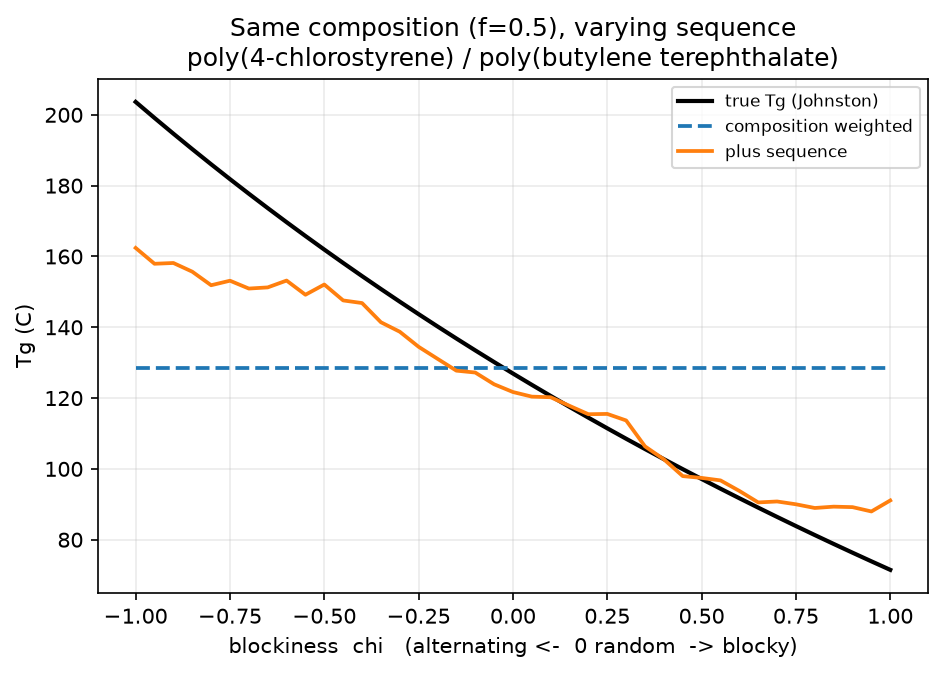
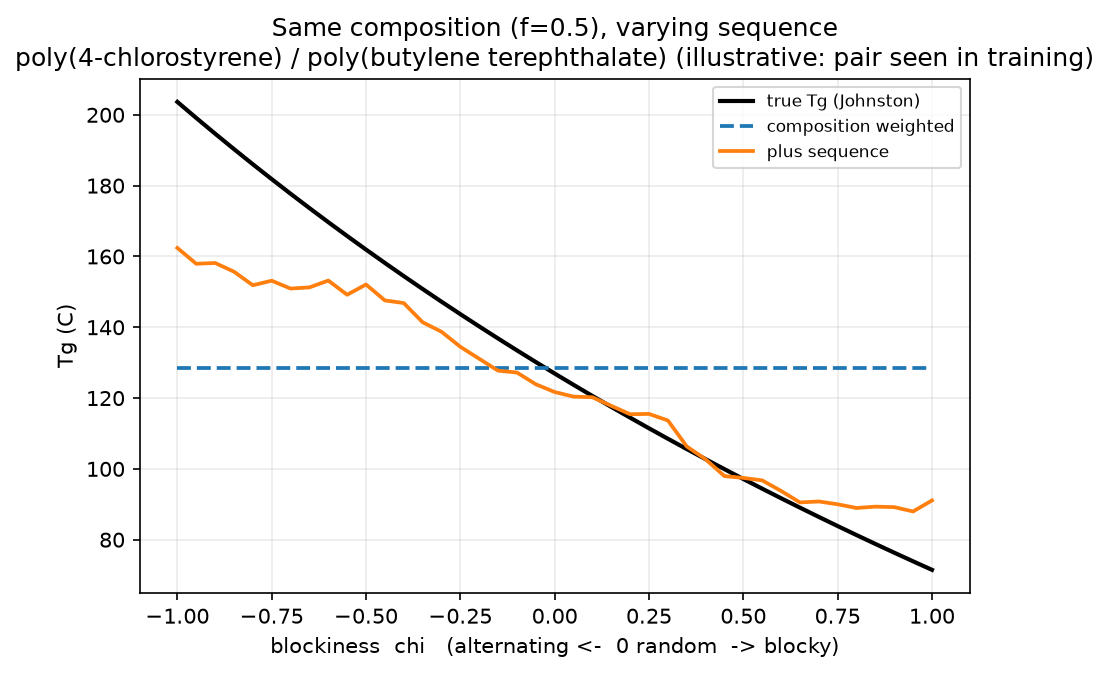
Fix review findings: unsound floor claim, stale docstring, oracle guard
- The 'sequence-blind floor' was not a lower bound and the repo's own table
  contradicted it (monomers_composition scored 15.8 vs the claimed 27.1
  'floor'): because each pair's sequence sensitivity is learnable from monomer
  structure, a sequence-blind model can absorb the composition-conditional
  mean of the sequence effect. Renamed composition_only_floor ->
  sequence_effect_scale and reframed README/writeup/figure to present the 27 C
  number as the scale of the planted effect, a yardstick rather than a bound.
- run_ablation.py docstring described a residuals-vs-effect figure the script
  no longer produces; it now describes the actual blockiness sweep, and both
  the figure title and README note the swept pair appears in training
  (illustrative, not held-out evidence).
- tg_johnston now raises when delta <= -1 would make the AB-junction absolute
  temperature non-positive, instead of silently producing corrupt labels.
- Figures regenerated with the honest labels; all numbers unchanged.

diff --git a/scripts/run_ablation.py b/scripts/run_ablation.py
@@ -6,11 +6,12 @@
 Writes the results table and two figures:
 
 * ``ablation_rmse.png`` -- test RMSE per representation and split, with the
-  composition-only floor drawn in. The gap between the naive and sequence-aware
-  bars on the random split is the headline.
-* ``blindness.png`` -- the naive representation's residuals plotted against the
-  planted sequence effect. They line up, which is the mechanistic proof that what
-  a composition-only encoding gets wrong *is* the sequence it cannot see.
+  scale of the planted sequence effect drawn in as a yardstick. The gap between
+  the naive and sequence-aware bars on the random split is the headline.
+* ``blindness.png`` -- a blockiness sweep for one sequence-sensitive comonomer
+  pair at fixed composition: the true Tg swings ~130 C while the naive
+  composition-weighted model draws a flat line. Illustrative, not held-out: the
+  swept pair's other (f, chi) samples are in the training data.
 
 Controlled benchmark -- labelled as such. Swap in real copolymer data through the
 same record structure when you have it.
@@ -26,7 +27,7 @@ import pandas as pd
 from polytools import GBMRegressor, random_split, silence_rdkit
 
 from copolybench import generate_dataset
-from copolybench.experiment import composition_only_floor, run_ablation
+from copolybench.experiment import run_ablation, sequence_effect_scale
 from copolybench.represent import build_representation
 
 ORDER = ["composition_weighted", "monomers_composition",
@@ -50,10 +51,10 @@ def main() -> None:
         n_pairs=args.n_pairs, points_per_pair=args.points_per_pair,
         noise_c=args.noise, seed=args.seed,
     )
-    floor = composition_only_floor(df)
+    scale = sequence_effect_scale(df)
     print(f"Dataset: {len(df)} copolymers from {df.pair_id.nunique()} comonomer pairs")
-    print(f"Tg std {df.tg.std():.1f} C | sequence-effect std (composition-blind floor) "
-          f"{floor:.1f} C | label noise {args.noise} C")
+    print(f"Tg std {df.tg.std():.1f} C | planted sequence-effect std {scale:.1f} C "
+          f"| label noise {args.noise} C")
 
     res = run_ablation(df, seed=args.seed)
     res.to_csv(args.outdir / "ablation_results.csv", index=False)
@@ -75,7 +76,7 @@ def main() -> None:
           f"{rnd['monomers_composition']:.1f} to {rnd['plus_sequence']:.1f} C "
           f"({100 * (1 - rnd['plus_sequence'] / rnd['monomers_composition']):.0f}% lower); "
           f"the naive composition-weighted encoding ({rnd['composition_weighted']:.1f}) "
-          f"sits at the sequence-blind floor ({floor:.1f}).")
+          f"leaves error comparable to the full sequence-effect scale ({scale:.1f}).")
 
     if args.no_figures:
         return
@@ -93,8 +94,8 @@ def main() -> None:
     for k, s in enumerate(splits):
         ax.bar(x + k * w - 0.4 + w / 2, piv[s].values, w, label=s,
                color=cmap(k), edgecolor="white")
-    ax.axhline(floor, color="crimson", ls="--", lw=1.2,
-               label=f"composition-blind floor ({floor:.0f} C)")
+    ax.axhline(scale, color="crimson", ls="--", lw=1.2,
+               label=f"planted sequence-effect scale ({scale:.0f} C)")
     ax.set_xticks(x)
     ax.set_xticklabels([r.replace("_", "\n") for r in ORDER], fontsize=8)
     ax.set_ylabel("Test RMSE (C)")
@@ -148,7 +149,8 @@ def main() -> None:
     ax.set_xlabel("blockiness  chi   (alternating <-  0 random  -> blocky)")
     ax.set_ylabel("Tg (C)")
     ax.set_title(f"Same composition (f=0.5), varying sequence\n"
-                 f"{pair['name_a']} / {pair['name_b']}")
+                 f"{pair['name_a']} / {pair['name_b']} "
+                 f"(illustrative: pair seen in training)")
     ax.legend(fontsize=8)
     ax.grid(alpha=0.25)
     fig.tight_layout()

diff --git a/src/copolybench/experiment.py b/src/copolybench/experiment.py
@@ -22,15 +22,20 @@ from polytools import GBMRegressor, group_split, random_split, regression_metric
 
 from .represent import REPRESENTATIONS, build_representation
 
-__all__ = ["run_ablation", "composition_only_floor"]
+__all__ = ["run_ablation", "sequence_effect_scale"]
 
 
-def composition_only_floor(df: pd.DataFrame) -> float:
-    """Lower bound on RMSE for any sequence-blind representation.
+def sequence_effect_scale(df: pd.DataFrame) -> float:
+    """Standard deviation of the planted sequence effect, ``std(tg - tg_fox)``.
 
-    A representation that is a function of composition only can, at best, predict
-    the Fox Tg for each composition. The residual it cannot touch is the sequence
-    effect ``tg - tg_fox``; its standard deviation is the achievable floor.
+    This is the *scale* of what sequence contributes -- a yardstick for the RMSE
+    table, **not** a lower bound for sequence-blind models. It is not a bound
+    because the pair sensitivity ``delta`` is (by design) learnable from monomer
+    structure: a sequence-blind model that knows the monomers can anticipate the
+    composition-conditional *mean* of the sequence effect and score below this
+    number. What no sequence-blind model can do is resolve *which* sequence a
+    given sample has -- that irreducible part is what separates the sequence-blind
+    representations from ``plus_sequence`` in the ablation.
     """
     return float((df["tg"] - df["tg_fox"]).std())
 
@@ -51,7 +56,7 @@ def run_ablation(
     """Train each representation under each split; return a tidy results frame."""
     y = df["tg"].to_numpy(dtype=float)
     splits = _splits(df, seed)
-    floor = composition_only_floor(df)
+    scale = sequence_effect_scale(df)
 
     rows = []
     for rep_name in REPRESENTATIONS:
@@ -68,6 +73,6 @@ def run_ablation(
                 "rmse": m["rmse"],
                 "mae": m["mae"],
                 "r2": m["r2"],
-                "sequence_blind_floor": floor,
+                "sequence_effect_scale": scale,
             })
     return pd.DataFrame(rows)

diff --git a/tests/test_copolybench.py b/tests/test_copolybench.py
@@ -19,7 +19,7 @@ from copolybench import (
     tg_fox,
     tg_johnston,
 )
-from copolybench.experiment import composition_only_floor, run_ablation
+from copolybench.experiment import run_ablation, sequence_effect_scale
 from copolybench.represent import build_representation
 
 # --------------------------------------------------------------------------
@@ -110,9 +110,9 @@ def test_dataset_shape_and_columns(dataset):
 
 def test_dataset_has_a_real_sequence_signal(dataset):
     """The planted sequence effect must be a meaningful fraction of Tg variance."""
-    floor = composition_only_floor(dataset)
-    assert floor > 10.0                       # sequence matters
-    assert floor < dataset.tg.std()           # but is not the whole story
+    scale = sequence_effect_scale(dataset)
+    assert scale > 10.0                       # sequence matters
+    assert scale < dataset.tg.std()           # but is not the whole story
 
 
 def test_delta_varies_with_pair_chemistry(dataset):

diff --git a/src/copolybench/oracle.py b/src/copolybench/oracle.py
@@ -86,6 +86,12 @@ def tg_johnston(
     a, b = tg_a_c + C_TO_K, tg_b_c + C_TO_K
     hm_k = 2.0 * a * b / (a + b)
     tg_ab_k = hm_k * (1.0 + delta)
+    if tg_ab_k <= 0:
+        raise ValueError(
+            f"delta={delta} makes the AB-junction Tg non-positive "
+            f"({tg_ab_k:.1f} K); an absolute temperature must be > 0. "
+            "Keep delta > -1 (physically, well inside (-1, 1))."
+        )
 
     inv = dyads.F_AA / a + dyads.F_AB / tg_ab_k + dyads.F_BB / b
     return 1.0 / inv - C_TO_K

diff --git a/docs/writeup.md b/docs/writeup.md
@@ -29,7 +29,7 @@ summed over the nearest-neighbour *dyad* fractions (`F_AA`, `F_AB`, `F_BB`), wit
 
 Every bit of sequence dependence lives in the `F_AB` coefficient. When the AB-junction Tg equals the harmonic mean of the two homopolymer Tgs, that coefficient is *exactly zero* and Johnston collapses onto Fox — sequence stops mattering. A single per-pair parameter, `delta`, sets how far the junction departs from neutral, and it is tied to the comonomers' polarity mismatch: chemically similar comonomers mix near-ideally (`delta ≈ 0`), dissimilar ones have non-ideal junctions (larger `|delta|`). Because `delta` is a function of monomer structure, a model can in principle *learn* it from the comonomers and generalise to pairs it has never seen — which is what makes the out-of-distribution test meaningful rather than hopeless.
 
-The result is a dataset of 5,400 copolymers across 300 comonomer pairs in which the sequence contribution has a standard deviation of about 27 °C — a lower bound, by construction, on the RMSE any composition-only representation can achieve.
+The result is a dataset of 5,400 copolymers across 300 comonomer pairs in which the sequence contribution has a standard deviation of about 27 °C — the scale of what sequence contributes, and the yardstick every representation gets measured against. (It is a yardstick rather than a strict floor: because each pair's sequence *sensitivity* is learnable from monomer structure, a composition-only model that knows the monomers can anticipate part of the average effect — what it can never do is resolve which sequence a given sample has.)
 
 ## The experiment
 
@@ -44,7 +44,7 @@ Four representations, one gradient-boosting model, two splits. The representatio
 
 *Test RMSE, °C.*
 
-The random column is the headline. The naive composition-weighted encoding is pinned at 25.3 °C — essentially the 27 °C sequence-blind floor. It has hit a wall that is not about model capacity or data volume; it is about information the representation never contained. Adding first-order sequence statistics drops RMSE to 9.4 °C, a 60 % reduction, down toward the label-noise floor.
+The random column is the headline. The naive composition-weighted encoding leaves 25.3 °C of error — essentially the full 27 °C scale of the planted sequence effect, meaning it resolves almost none of what sequence contributes. That is not about model capacity or data volume; it is about information the representation never contained. Adding first-order sequence statistics drops RMSE to 9.4 °C, a 60 % reduction, down toward the label-noise floor.
 
 The single most convincing picture is not the table but a slice through it. Fix a sequence-sensitive comonomer pair at 50/50 composition and sweep the blockiness axis. The true Tg swings roughly 130 °C from alternating to blocky. The composition-weighted model draws a **flat horizontal line** across the entire sweep — one answer for a property that moves by 130 °C — while the sequence-aware model tracks the real curve. That flat line is the thesis.
 

diff --git a/README.md b/README.md
@@ -10,7 +10,7 @@ This repo measures exactly what that blindness costs, on ground truth where the 
 
 ![At one fixed composition, the true Tg swings ~130 °C from alternating to blocky. The naive composition-weighted representation predicts a flat line — it cannot see sequence. A representation given first-order sequence statistics tracks the truth.](assets/blindness.png)
 
-Same comonomers, same 50/50 composition. **Only the sequence changes.** The true glass-transition temperature moves by ~130 °C across the blockiness axis; the composition-weighted model — the field's default — returns one flat answer for all of it.
+Same comonomers, same 50/50 composition. **Only the sequence changes.** The true glass-transition temperature moves by ~130 °C across the blockiness axis; the composition-weighted model — the field's default — returns one flat answer for all of it. (This sweep is an illustration on a pair whose other samples appear in training; the held-out evidence is the table below.)
 
 ---
 
@@ -27,9 +27,9 @@ Four representations, the same gradient-boosting model, the same splits. Only th
 
 *Test RMSE, °C. Controlled synthetic benchmark — see below.*
 
-Read the `random` column. The naive composition-weighted encoding is stuck at **25.3 °C**, essentially the *sequence-blind floor* of 27 °C (the standard deviation of the planted sequence effect — the part no composition-only model can fit). Adding first-order sequence statistics — the AB dyad fraction, blockiness, mean run lengths — drops RMSE to **9.4 °C**, a 60% reduction, down toward the label-noise floor.
+Read the `random` column against the yardstick: the planted sequence effect has a standard deviation of **27 °C**, and the naive composition-weighted encoding leaves an error of the same size (**25.3 °C**) — it resolves essentially none of what sequence contributes. A sequence-blind model that at least knows the monomers does better (15.8 °C: the pair-specific sequence *sensitivity* is learnable from monomer structure, so it can anticipate the average sequence effect for a pair — though never which sequence a given sample has). Adding first-order sequence statistics — the AB dyad fraction, blockiness, mean run lengths — drops RMSE to **9.4 °C**, down toward the label-noise floor.
 
-![Test RMSE per representation and split, with the sequence-blind floor drawn in.](assets/ablation_rmse.png)
+![Test RMSE per representation and split, with the scale of the planted sequence effect drawn in as a yardstick.](assets/ablation_rmse.png)
 
 > 📄 **The full technical writeup** — the argument, the physics, and the nuances in article form — is in [`docs/writeup.md`](docs/writeup.md).
 
